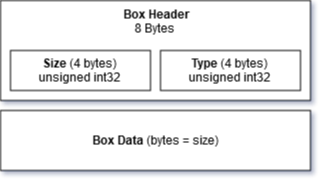
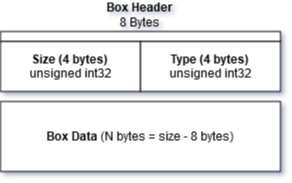
Update README and save work.

Changed region(s): [[0.0, 0.0, 0.9863, 0.9341], [0.1541, 0.7143, 0.8014, 0.8242]]

diff --git a/README.md b/README.md
@@ -17,6 +17,7 @@ Feel free to send suggestions and corrections.
 - [Fragmented MP4 (fMP4)](#fragmented-mp4-fmp4)
 - [Movie Data & Codecs](#movie-data--codecs)
 - [References and Resources](#references-and-resources)
+- [Tools](#tools)
 - [License](#license)
 
 
@@ -31,18 +32,40 @@ The ISOBMFF format is directly based on the [QuickTime](https://en.wikipedia.org
 # Movie Atoms
 
 ## Atom Header Format
+The MP4 byte structure is composed of a series of boxes, also known as "atoms". Each box describes and contains data to build the MP4 container format.
 
-![Box Header](images/box-header.png)
+The first 8 bytes of each box is known as the "Box Header", where the first 4 bytes are the size of the box, and the next 4 bytes are the box name. These are the two values you need to know to iterate and parse each box, byte by byte.
 
-```
-aligned(8) class Box (unsigned int(32) boxtype,
-    optional unsigned int(8)[16] extended_type) {
-    unsigned int(32) size;
-    unsigned int(32) type = boxtype;
+For example, this is an example of a Box Header:
+
+```go
+type Box struct {
+  Name    string
+  Size    int32
 }
 ```
+![Box Header](images/box-header.png)
+
+The box `Name` being the box type, also known as the `FourCC` code.
+
+The box `Size` being the size (in bytes) of the box, including the box header.
+
 
 ## Reading the Atom Data
+Reading the box data from each atom requires the box size, name and byte structure of each box you are parsing. You can refer to the MPEG-4 Part 14 specification for the byte structure of each known box, or just refer to some existing MP4 parsing open-source code.
+
+For example, reading the Filetype Box (`ftyp`):
+
+```go
+type FtypBox struct {
+  *Box
+  MajorBrand       string   // Brand identifer.
+  MinorVersion     uint32   // Informative integer for the minor version of the major brand.
+  CompatibleBrands []string // A list, to the end of the box, of brands.
+}
+```
+![Filetype Box](images/ftyp.png)
+
 
 ## Basic Types
 
@@ -55,5 +78,9 @@ aligned(8) class Box (unsigned int(32) boxtype,
 # References and Resources
 * https://developer.apple.com/library/archive/documentation/QuickTime/QTFF
 * https://en.wikipedia.org/wiki/ISO/IEC_base_media_file_format
+
+# Tools
+* https://hexed.it
+* https://www.diagrams.net/
 
 # License
